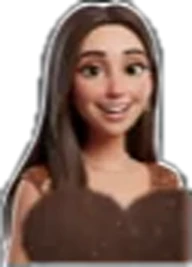
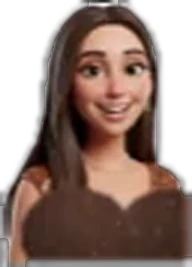
Finale: Avatare im Studiolicht hinter dem Pult, Handschrift groß und kräftig
Claude-Session: https://claude.ai/code/session_01S4nRLptoA3u6Q2ggJyTWVo

diff --git a/assets/js/studio.js b/assets/js/studio.js
@@ -164,7 +164,12 @@ export function singlePodium({ avatar, color, label, mirror = false, extra = nul
   const svg = el('svg', { class: 'single-podium', viewBox: `0 0 ${VW} ${VH}`, role: 'img', 'aria-label': label || '' });
   const cx = mirror ? 104 : 290;
   // Avatar so breit wie die Pultoberseite, unten bündig hinter der Pultkante (Oberkörper hinter dem Pult).
-  if (avatar) svg.append(el('image', { href: avatar, x: cx - 100, y: PY - 175, width: 200, height: 222, preserveAspectRatio: 'xMidYMax meet' }));
+  if (avatar) {
+    // Person steht im Raum hinter dem Pult: Oberkörper verschwindet hinter der Pultkante,
+    // Studiolicht (Farbstich, Kantenlicht) statt aufgeklebtem Bild.
+    svg.append(el('image', { href: avatar, class: 'sp-avatar', x: cx - 112, y: PY - 228, width: 224, height: 270, preserveAspectRatio: 'xMidYMax meet' }));
+    svg.append(el('rect', { x: 0, y: PY - 6, width: VW, height: 30, fill: '#000', opacity: 0.35, filter: 'blur(6px)' }));
+  }
   svg.append(el('ellipse', { cx: VW / 2, cy: VH - 8, rx: 180, ry: 12, fill: '#000', opacity: 0.45 }));
   svg.append(el('image', { href: 'assets/img/finale-pult.webp', x: 0, y: PY, width: VW, height: 342, transform: mirror ? `translate(${VW} 0) scale(-1 1)` : null }));
   const top = h('div', { class: 'sp-top', style: { left: `${((mirror ? 6 : 200) / VW) * 100}%`, width: `${(188 / VW) * 100}%`, top: `${((PY - 34) / VH) * 100}%`, height: `${(44 / VH) * 100}%` } }, extra);

diff --git a/assets/css/style.css b/assets/css/style.css
@@ -988,3 +988,8 @@ body:not(.beamer-page) .card { background: rgba(20, 22, 52, 0.84); border: 1px s
 .fb-stage.fx .fx-board-body, .fb-stage.fx .fx-face { inset: 1vh 1vw; }
 .fb-stage.fx .fx-q span, .fb-stage.fx .fx-q b, .fb-stage.fx .fx-name { overflow: hidden; white-space: normal; }
 .fb-stage.fx .fx-name { white-space: nowrap; }
+/* Avatar hinter dem Finalpult: an das Studiolicht angepasst */
+.sp-avatar { filter: brightness(0.88) contrast(1.05) saturate(0.95) drop-shadow(-3px 0 4px rgba(31, 214, 242, 0.55)) drop-shadow(3px 0 4px rgba(255, 45, 138, 0.5)) drop-shadow(0 6px 10px rgba(0, 0, 0, 0.6)); }
+.pult-av img { filter: brightness(0.9) contrast(1.04) drop-shadow(-2px 0 3px rgba(31, 214, 242, 0.45)) drop-shadow(2px 0 3px rgba(255, 45, 138, 0.4)); }
+/* Handschrift groß und kräftig, vollständig sichtbar */
+.fb-stage.fx .fx-ink { width: 100%; height: 100%; max-width: none; max-height: none; object-fit: contain; filter: url(#ink-bold) invert(1); mix-blend-mode: screen; background: transparent !important; border-radius: 0; }

diff --git a/beamer.html b/beamer.html
@@ -13,6 +13,7 @@
 </head>
 <body class="beamer-page">
   <div class="studio-bg" id="studio-bg" aria-hidden="true"></div>
+  <svg width="0" height="0" style="position:absolute" aria-hidden="true"><filter id="ink-bold"><feMorphology operator="erode" radius="2.2"/></filter></svg>
   <main class="beamer"><div class="stage" id="stage"></div></main>
   <div class="beamer-controls" id="beamer-controls">
     <button id="fullscreen" class="btn small pink" type="button" title="Vollbild (Taste F)">⛶ Vollbild</button>
